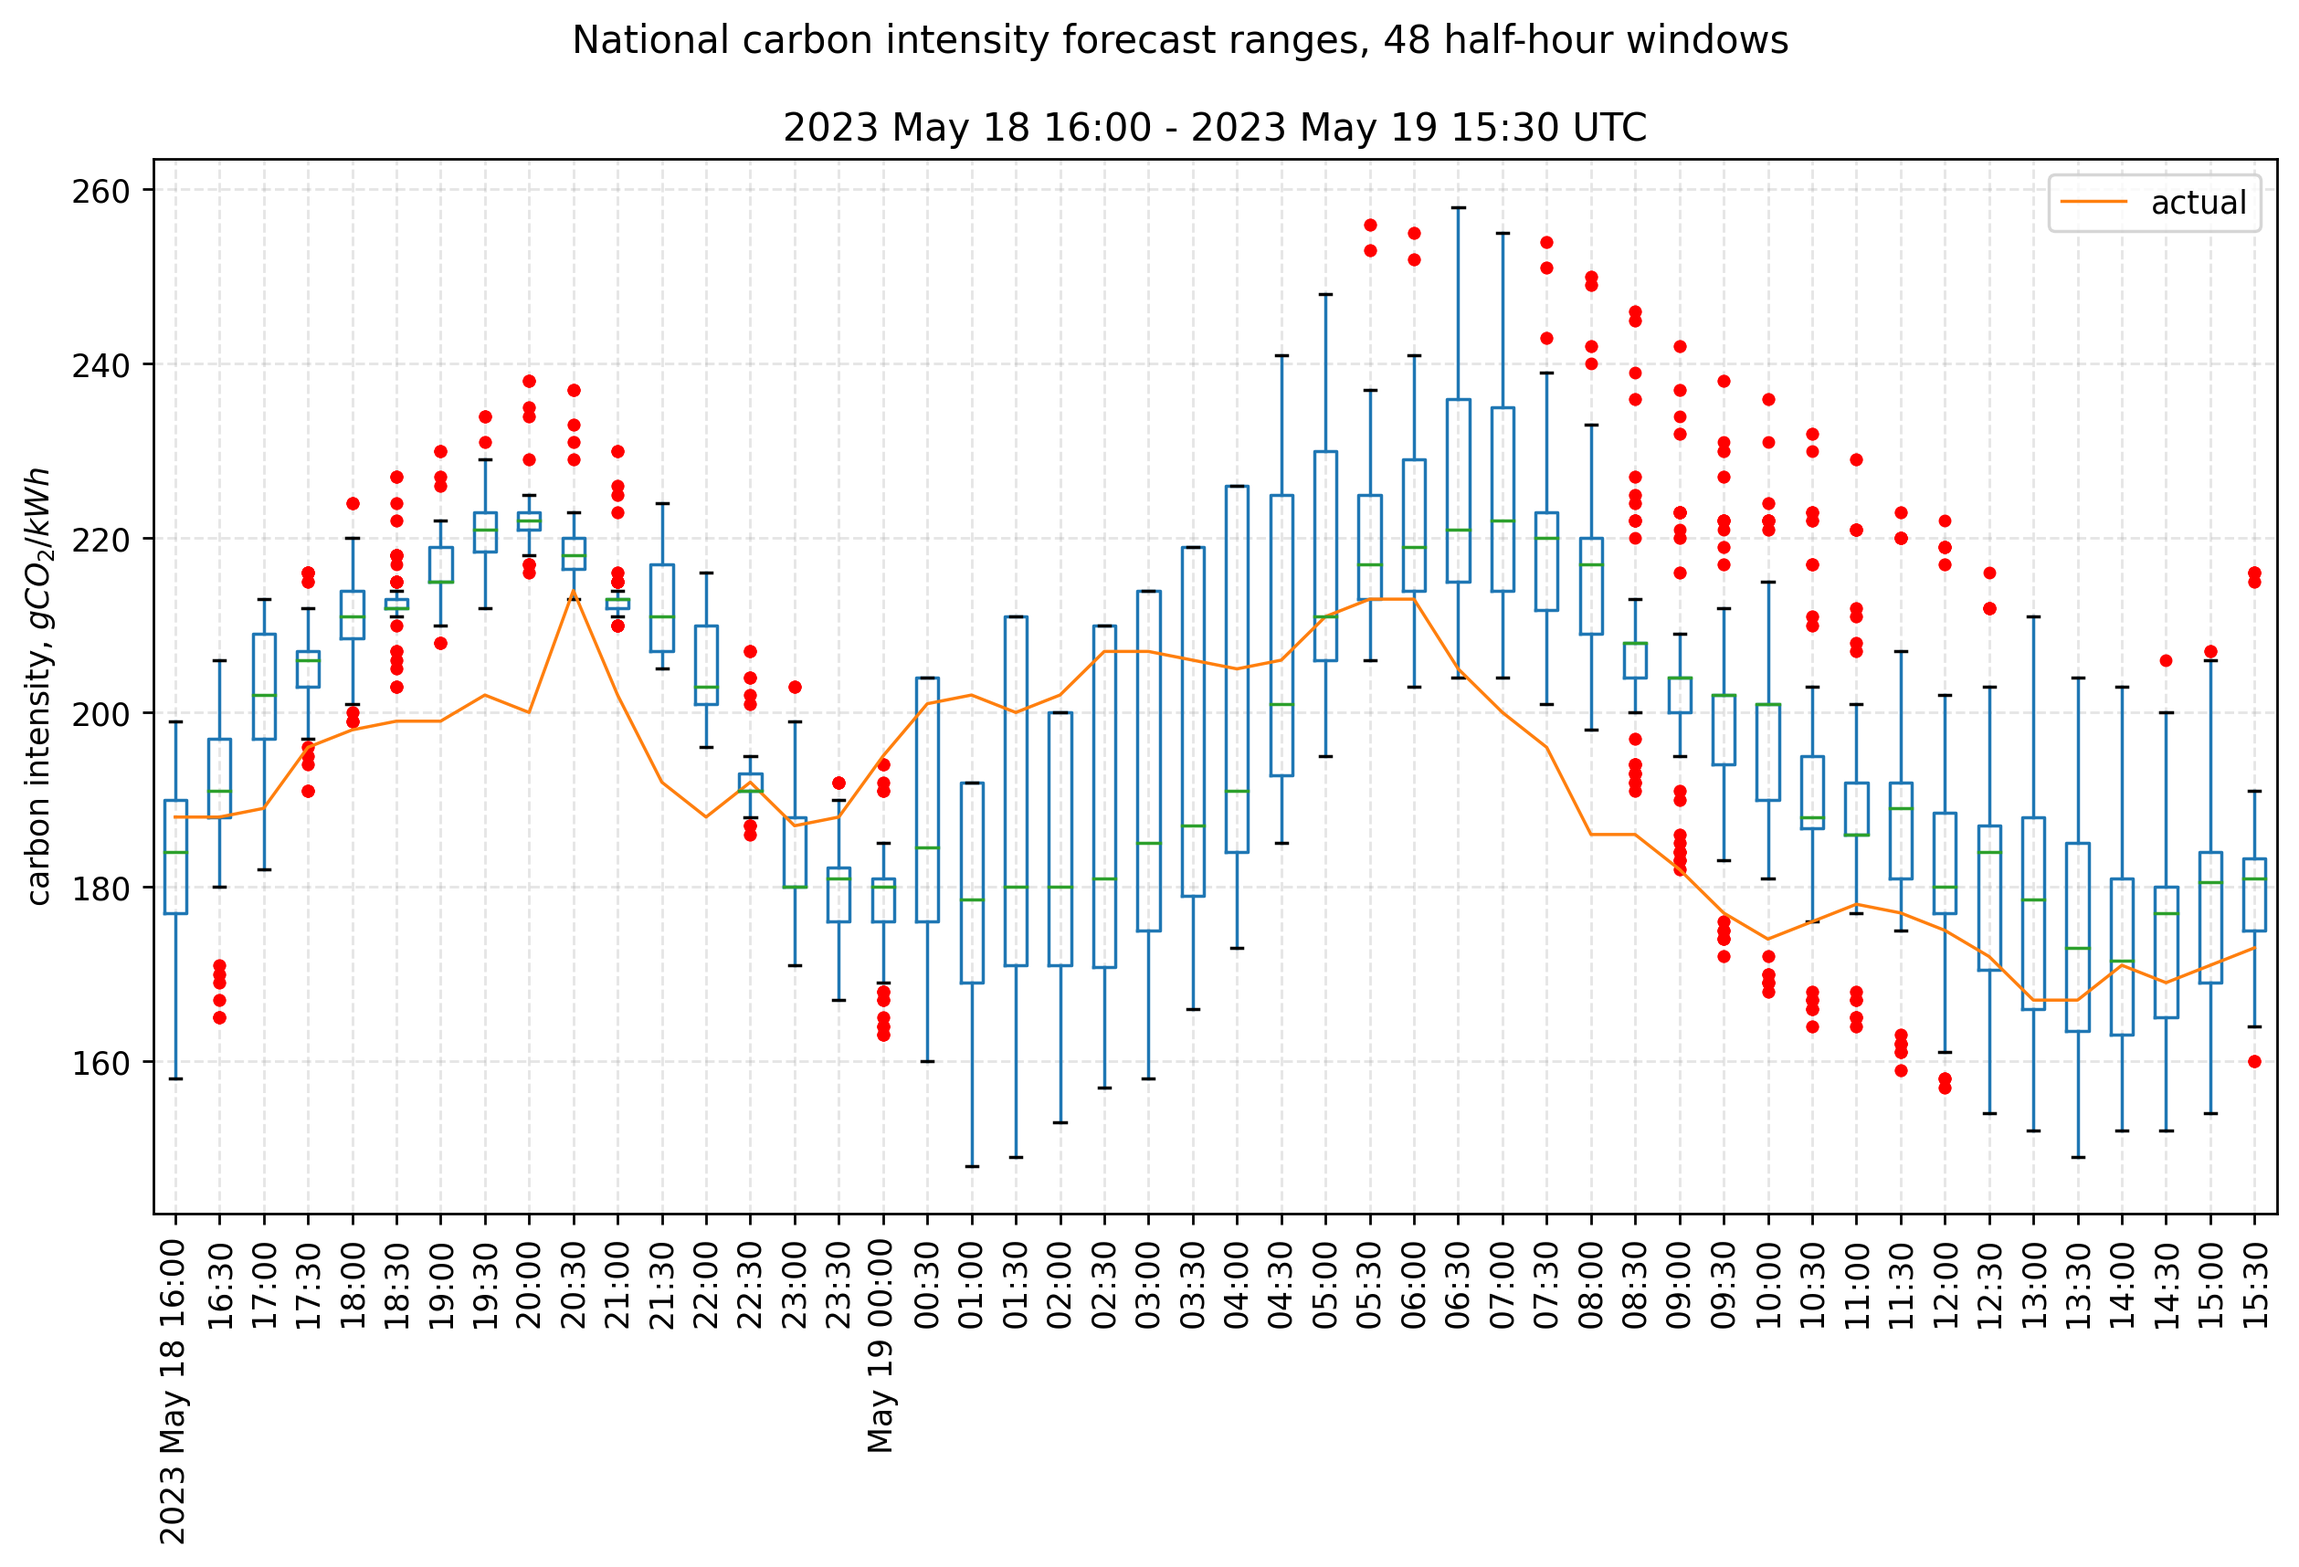
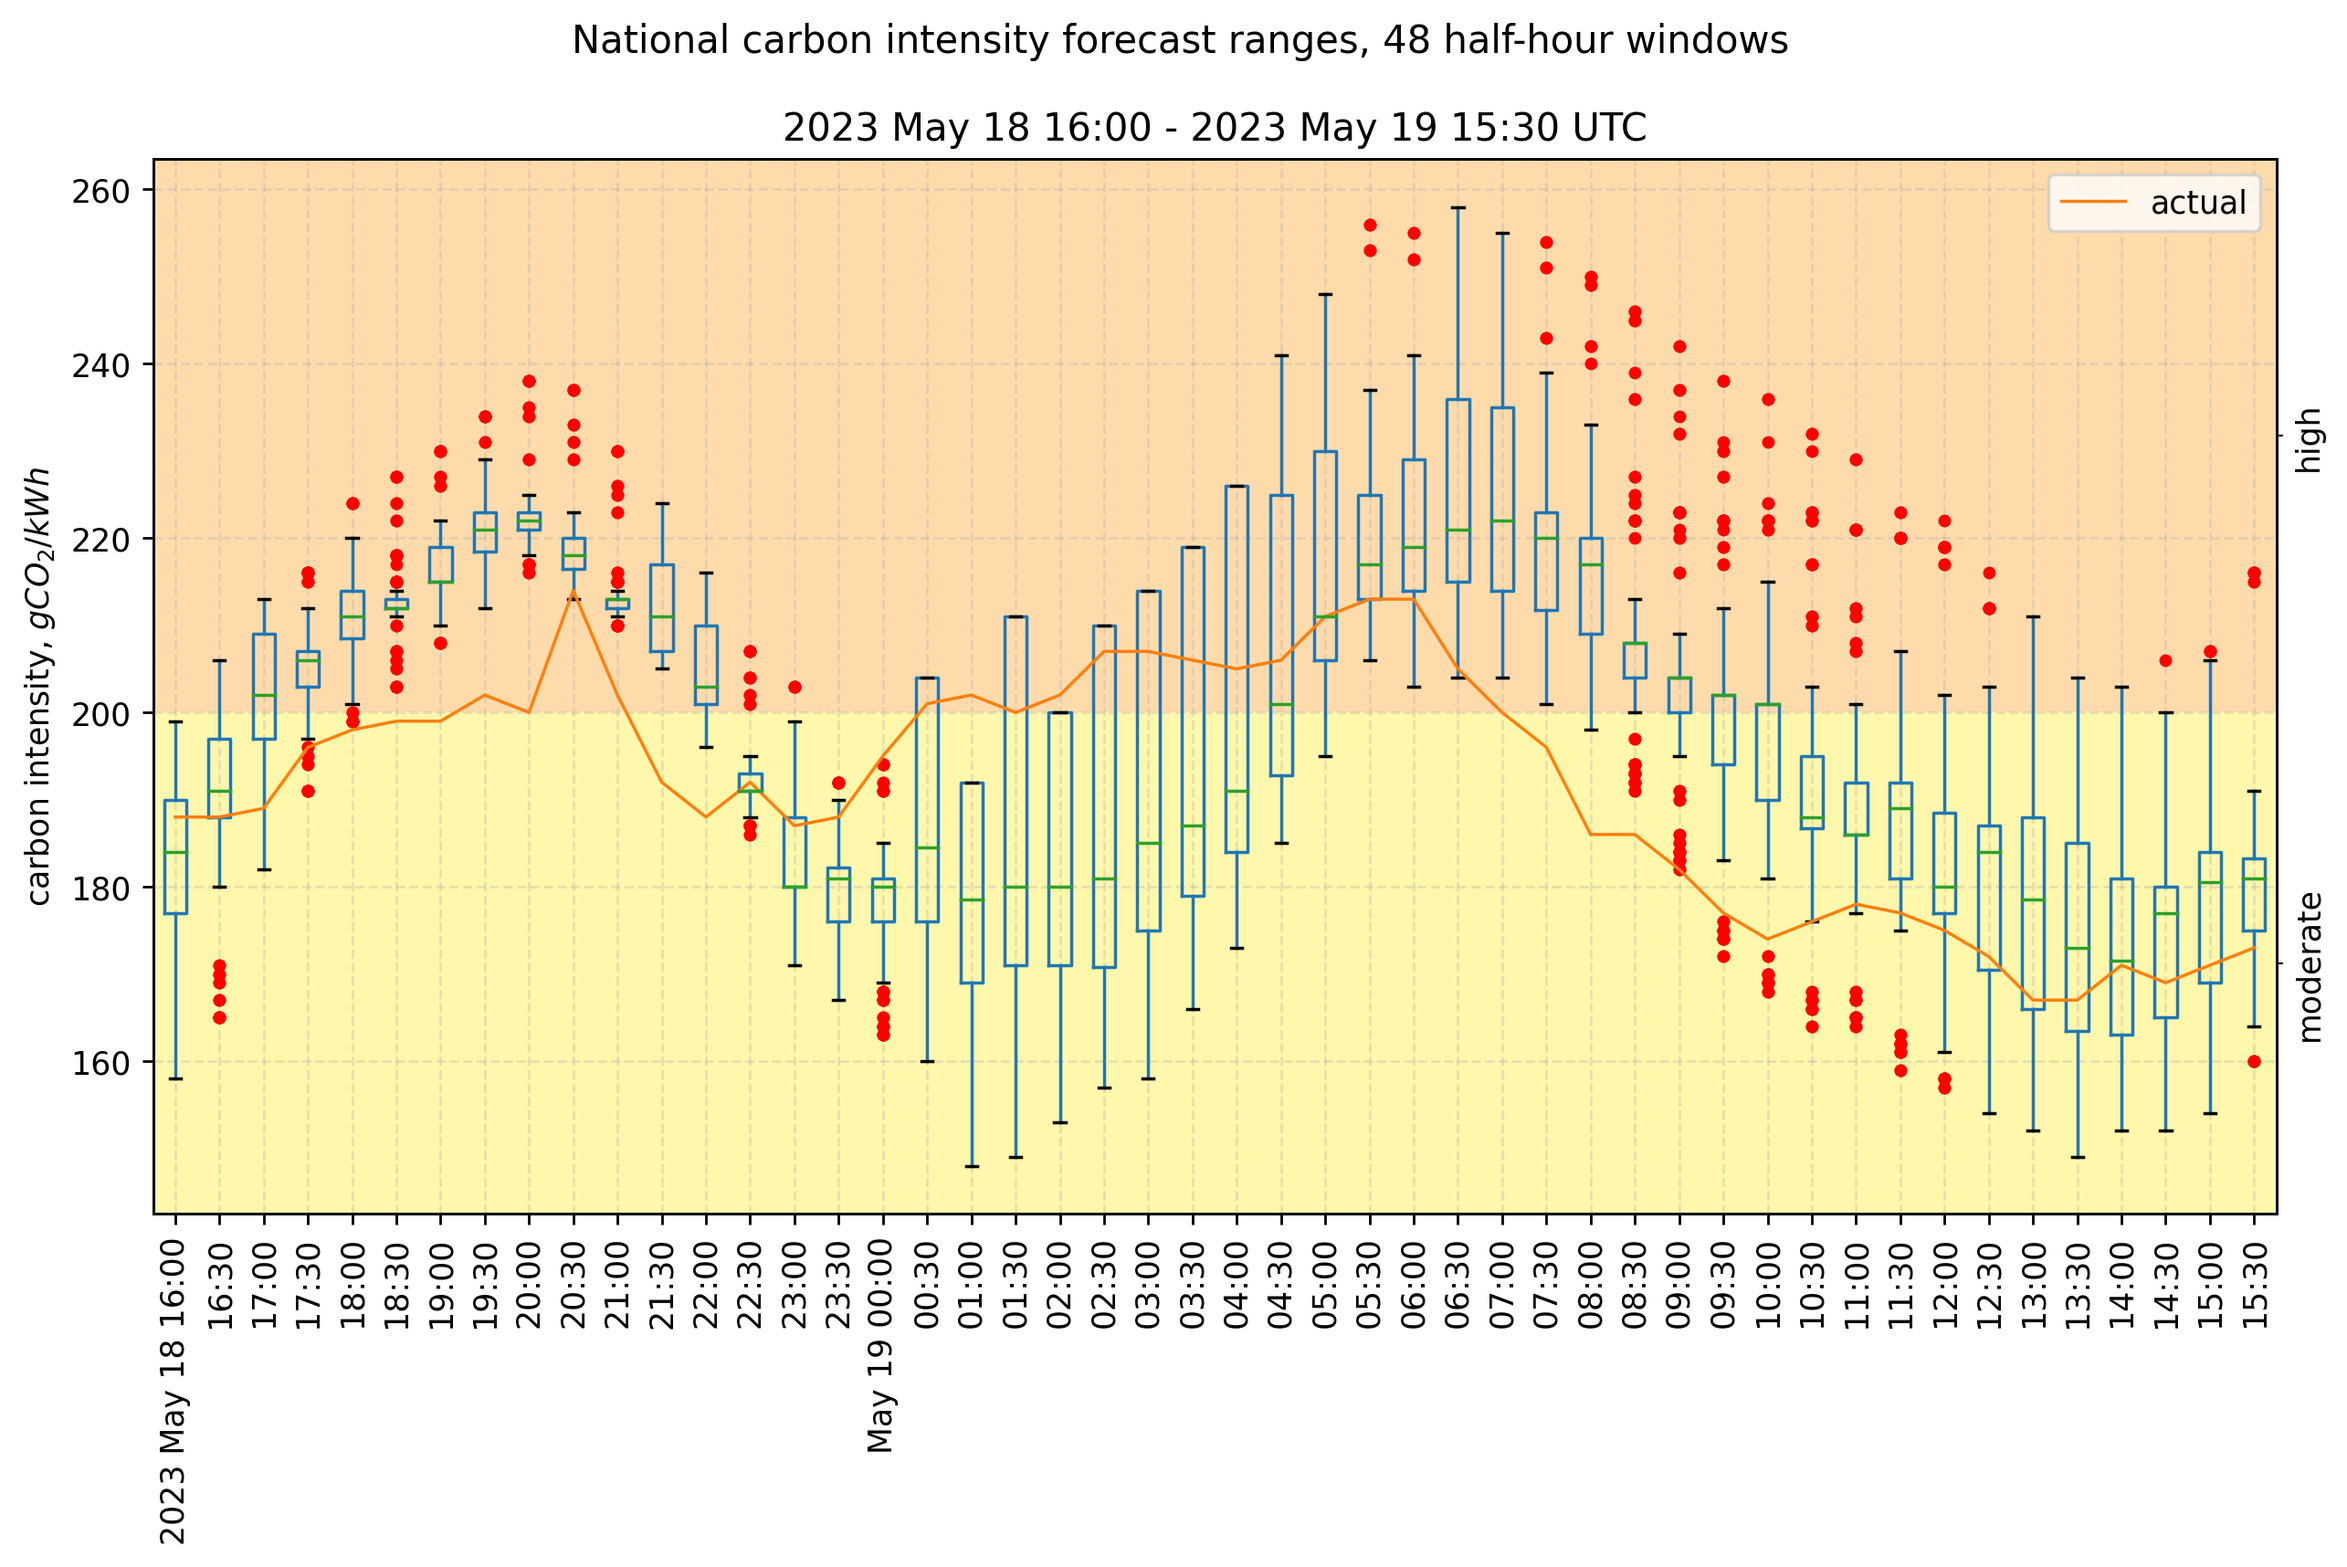
regen plots

diff --git a/scrape/graph.py b/scrape/graph.py
@@ -941,7 +941,7 @@ def create_graph_images(
     fig = generate_plot_ci_lines(df, dates=dates)
     save_figure(fig, output_directory, filter + "_ci_lines.png")
 
-    fig = generate_boxplot_ci(df, dates=dates)
+    fig = generate_boxplot_ci(df, dates=dates, colourmap=True)
     save_figure(fig, output_directory, filter + "_ci_boxplot.png")
 
     fig = generate_boxplot_ci_error(df, dates=dates)

diff --git a/README.md b/README.md
@@ -62,7 +62,7 @@ To do!
 - If we query the 48h forecast API at a given time e.g. 18:45, the earliest time window (the 0th entry in the data) begins at the current time rounded down to the nearest half hour, i.e. the "from" timepoint 0 will be 18:30 and represents the window covering the time requested. A wrinkle is that if you request 18:30, you'll get the window beginning 18:00, i.e. `(2023-03-10T18:00Z, 2023-03-10T18:30Z]`, so the code here always requests +1 minute from the rounded-down half-hour.
 - Dates don't seem to wrap around years, [31st December - 1st Jan](https://api.carbonintensity.org.uk/regional/intensity/2022-12-31T21:31Z/fw48h).
 
-## Forecast Accuracy
+## Forecast Accuracy - National
 
 For the complete history since the start of this project, see [./charts/stats_history_national.csv](./charts/stats_history_national.csv).
 
